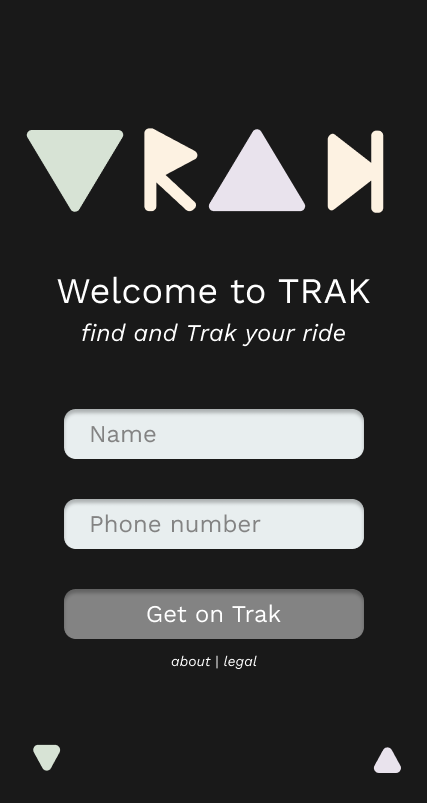
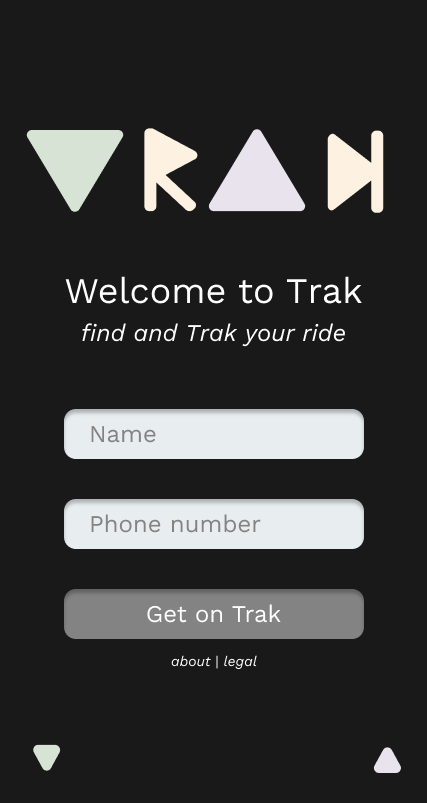
build screen 1

Changed region(s): [[0.1218, 0.3425, 0.6393, 0.4047], [0.6698, 0.3425, 0.8525, 0.4047]]

diff --git a/templates/index.html b/templates/index.html
@@ -7,104 +7,51 @@
     <meta name="viewport" content="width=device-width, initial-scale=1">
 
     <!-- Bootstrap CSS -->
-    <link href="https://cdn.jsdelivr.net/npm/bootstrap@5.1.3/dist/css/bootstrap.min.css" rel="stylesheet"
-        integrity="sha384-1BmE4kWBq78iYhFldvKuhfTAU6auU8tT94WrHftjDbrCEXSU1oBoqyl2QvZ6jIW3" crossorigin="anonymous">
+    <!-- <link href="https://cdn.jsdelivr.net/npm/bootstrap@5.1.3/dist/css/bootstrap.min.css" rel="stylesheet"
+        integrity="sha384-1BmE4kWBq78iYhFldvKuhfTAU6auU8tT94WrHftjDbrCEXSU1oBoqyl2QvZ6jIW3" crossorigin="anonymous"> -->
     
     <link rel="icon" href="https://cloud-8ktq37dfl-hack-club-bot.vercel.app/0t.png">
     <link rel="stylesheet" href="style.css">
-    <!-- <link rel="stylesheet" href="https://codepen.io/gymratpacks/pen/VKzBEp#0"> -->
 
-    <link href='https://fonts.googleapis.com/css?family=Nunito:400,300' rel='stylesheet' type='text/css'>
+    <link rel="preconnect" href="https://fonts.googleapis.com">
+    <link rel="preconnect" href="https://fonts.gstatic.com" crossorigin>
+    <link href="https://fonts.googleapis.com/css2?family=Work+Sans:ital,wght@0,400;1,300&display=swap" rel="stylesheet">
 
     <title>T R A K</title>    
 </head>
 
 <body>
-    <h1>Welcome to TRAK</h1>
-
-    <!-- Optional JavaScript; choose one of the two! -->
-
-    <!-- Option 1: Bootstrap Bundle with Popper -->
+    <!-- Bootstrap Bundle with Popper -->
     <script src="https://cdn.jsdelivr.net/npm/bootstrap@5.1.3/dist/js/bootstrap.bundle.min.js"
         integrity="sha384-ka7Sk0Gln4gmtz2MlQnikT1wXgYsOg+OMhuP+IlRH9sENBO0LRn5q+8nbTov4+1p"
         crossorigin="anonymous"></script>
 
-    <!-- Option 2: Separate Popper and Bootstrap JS -->
-    <!--
-    <script src="https://cdn.jsdelivr.net/npm/@popperjs/core@2.10.2/dist/umd/popper.min.js" integrity="sha384-7+zCNj/IqJ95wo16oMtfsKbZ9ccEh31eOz1HGyDuCQ6wgnyJNSYdrPa03rtR1zdB" crossorigin="anonymous"></script>
-    <script src="https://cdn.jsdelivr.net/npm/bootstrap@5.1.3/dist/js/bootstrap.min.js" integrity="sha384-QJHtvGhmr9XOIpI6YVutG+2QOK9T+ZnN4kzFN1RtK3zEFEIsxhlmWl5/YESvpZ13" crossorigin="anonymous"></script>
-    -->
-
-
     <div class="row">
         <div class="col-md-12">
-            <form action="this is going to be a repl.it link" method="post">
-                <h1> Sign Up </h1>
 
-                <fieldset>
+            <fieldset>
 
-                    <legend><span class="number">1</span> Your Basic Info</legend>
+                <center><img src="./../assets/logo_trak.png" alt="Trak logo"></center>
+                
+                <h1>Welcome to Trak</h1>
+                
+                <center><h2><i>find and Trak your ride</i></h2></center>
+                
 
-                    <label for="name">Name:</label>
-                    <input type="text" id="name" name="user_name">
+                <input class="input-name" placeholder="Name" type="text">
+                <input type="text" id="name" name="user_name">
+                    
+                <label class="input-phone" placeholder="Phone number" type="number">
+                <input type="tel" id="phone" name="user_phone" pattern="[0-9]{3}-[0-9]{3}-[0-9]{4}" required>
 
-                    <label for="email">Email:</label>
-                    <input type="email" id="mail" name="user_email">
+            </fieldset>
 
-                    <label for="password">Password:</label>
-                    <input type="password" id="password" name="user_password">
-
-                    <label>Age:</label>
-                    <input type="radio" id="under_13" value="under_13" name="user_age"><label for="under_13"
-                        class="light">Under 13</label><br>
-                    <input type="radio" id="over_13" value="over_13" name="user_age"><label for="over_13"
-                        class="light">Over 13</label>
-
-                </fieldset>
-                <fieldset>
-
-                    <legend><span class="number">2</span> Your Profile</legend>
-
-                    <label for="bio">Bio:</label>
-                    <textarea id="bio" name="user_bio"></textarea>
-
-
-
-                    <label for="job">Job Role:</label>
-                    <select id="job" name="user_job">
-                        <optgroup label="Web">
-                            <option value="frontend_developer">Front-End Developer</option>
-                            <option value="php_developer">PHP Developer</option>
-                            <option value="python_developer">Python Developer</option>
-                            <option value="rails_developer">Rails Developer</option>
-                            <option value="web_designer">Web Designer</option>
-                            <option value="wordpress_developer">Wordpress Developer</option>
-                        </optgroup>
-                        <optgroup label="Mobile">
-                            <option value="android_developer">Android Developer</option>
-                            <option value="ios_developer">IOS Developer</option>
-                            <option value="mobile_designer">Mobile Designer</option>
-                        </optgroup>
-                        <optgroup label="Business">
-                            <option value="business_owner">Business Owner</option>
-                            <option value="freelancer">Freelancer</option>
-                        </optgroup>
-                    </select>
-
-                    <label>Interests:</label>
-                    <input type="checkbox" id="development" value="interest_development" name="user_interest"><label
-                        class="light" for="development">Development</label><br>
-                    <input type="checkbox" id="design" value="interest_design" name="user_interest"><label class="light"
-                        for="design">Design</label><br>
-                    <input type="checkbox" id="business" value="interest_business" name="user_interest"><label
-                        class="light" for="business">Business</label>
-
-                </fieldset>
-
-                <button type="submit">Sign Up</button>
-
+            <form action="screen2.html">
+                <button type="submit">Get on Trak</button>
             </form>
+
         </div>
+
     </div>
 
 </body>

diff --git a/templates/screen2.html b/templates/screen2.html
@@ -1,0 +1,46 @@
+<!doctype html>
+<html lang="en">
+
+<head>
+    <!-- Required meta tags -->
+    <meta charset="utf-8">
+    <meta name="viewport" content="width=device-width, initial-scale=1">
+
+    <!-- Bootstrap CSS -->
+    <link href="https://cdn.jsdelivr.net/npm/bootstrap@5.1.3/dist/css/bootstrap.min.css" rel="stylesheet"
+        integrity="sha384-1BmE4kWBq78iYhFldvKuhfTAU6auU8tT94WrHftjDbrCEXSU1oBoqyl2QvZ6jIW3" crossorigin="anonymous">
+
+    <link rel="icon" href="https://cloud-8ktq37dfl-hack-club-bot.vercel.app/0t.png">
+    <link rel="stylesheet" href="style.css">
+    <!-- <link rel="stylesheet" href="https://codepen.io/gymratpacks/pen/VKzBEp#0"> -->
+
+    <!-- <link href='https://fonts.googleapis.com/css?family=Nunito:400,300' rel='stylesheet' type='text/css'> -->
+    <link rel="preconnect" href="https://fonts.googleapis.com">
+    <link rel="preconnect" href="https://fonts.gstatic.com" crossorigin>
+    <link href="https://fonts.googleapis.com/css2?family=Work+Sans:ital,wght@1,300&display=swap" rel="stylesheet">
+
+    <title>T R A K</title>
+</head>
+
+<body>
+    <h1>Welcome to TRAK</h1>
+
+    <!-- Optional JavaScript; choose one of the two! -->
+
+    <!-- Option 1: Bootstrap Bundle with Popper -->
+    <script src="https://cdn.jsdelivr.net/npm/bootstrap@5.1.3/dist/js/bootstrap.bundle.min.js"
+        integrity="sha384-ka7Sk0Gln4gmtz2MlQnikT1wXgYsOg+OMhuP+IlRH9sENBO0LRn5q+8nbTov4+1p"
+        crossorigin="anonymous"></script>
+
+    <!-- Option 2: Separate Popper and Bootstrap JS -->
+    <!--
+    <script src="https://cdn.jsdelivr.net/npm/@popperjs/core@2.10.2/dist/umd/popper.min.js" integrity="sha384-7+zCNj/IqJ95wo16oMtfsKbZ9ccEh31eOz1HGyDuCQ6wgnyJNSYdrPa03rtR1zdB" crossorigin="anonymous"></script>
+    <script src="https://cdn.jsdelivr.net/npm/bootstrap@5.1.3/dist/js/bootstrap.min.js" integrity="sha384-QJHtvGhmr9XOIpI6YVutG+2QOK9T+ZnN4kzFN1RtK3zEFEIsxhlmWl5/YESvpZ13" crossorigin="anonymous"></script>
+    -->
+
+
+    <h1>Thank you!</h1>
+
+</body>
+
+</html>

diff --git a/templates/style.css b/templates/style.css
@@ -4,18 +4,19 @@
   -moz-box-sizing: border-box;
   -webkit-box-sizing: border-box;
   box-sizing: border-box;
+  background-color: #191919;
 }
 
 body {
-  font-family: "Nunito", sans-serif;
-  color: #384047;
+  font-family: "Work Sans", sans-serif;
+  color: #ffffff;
 }
 
 form {
   max-width: 300px;
   margin: 10px auto;
   padding: 10px 20px;
-  background: #f4f7f8;
+  background: #191919;
   border-radius: 8px;
 }
 
@@ -25,15 +26,8 @@ h1 {
 }
 
 input[type="text"],
-input[type="password"],
-input[type="date"],
-input[type="datetime"],
-input[type="email"],
 input[type="number"],
 input[type="search"],
-input[type="tel"],
-input[type="time"],
-input[type="url"],
 textarea,
 select {
   background: rgba(255, 255, 255, 0.1);
@@ -43,7 +37,7 @@ select {
   margin: 0;
   outline: 0;
   padding: 15px;
-  width: 100%;
+  width: 50%;
   background-color: #e8eeef;
   color: #8a97a0;
   box-shadow: 0 1px 0 rgba(0, 0, 0, 0.03) inset;
@@ -62,18 +56,26 @@ select {
 }
 
 button {
-  padding: 19px 39px 18px 39px;
-  color: #fff;
-  background-color: #4bc970;
+  padding: 19px 39px 18px 39px; /*padding: 5px 10px;*/
+  color: #ffffff;
+  background-color: #838383;
   font-size: 18px;
   text-align: center;
   font-style: normal;
+  border: 4px solid #d7e3d5;
   border-radius: 5px;
   width: 100%;
-  border: 1px solid #3ac162;
+  border: 1px solid #838383;
   border-width: 1px 1px 3px;
   box-shadow: 0 -1px 0 rgba(255, 255, 255, 0.1) inset;
   margin-bottom: 10px;
+}
+
+button:hover {
+  color: #d7e3d5;
+  background-color: ##d7e3d5;
+  box-shadow: 3px 3px #aaaaaa;
+  cursor: pointer;
 }
 
 fieldset {
@@ -81,7 +83,7 @@ fieldset {
   border: none;
 }
 
-legend {
+/* legend {
   font-size: 1.4em;
   margin-bottom: 10px;
 }
@@ -113,5 +115,5 @@ label.light {
 @media screen and (min-width: 480px) {
   form {
     max-width: 480px;
-  }
-}
+  } 
+} */

diff --git a/send_sms.py b/send_sms.py
@@ -12,13 +12,28 @@ client = Client(account_sid, auth_token)
 
 
 # Text user: default
-def text_user():
+def text_user(name):
     message = client.messages.create(
         to=phone_number,
         from_="+14232502023",
         body=
         "Hi!! This is Elizabeth and Alyssa on Twilio hacking at Technica 2021. Welcome to trak!"
     )
+
+
+# Text user: ride prepare
+def text_user_prepare(name):
+    message = client.messages.create(to=phone_number,
+                                     from_="+14232502023",
+                                     body="Get ready, " + name +
+                                     "! Your ride is coming in 1 minute")
+
+
+# Text user: ride arrival
+def text_user_arrive():
+    message = client.messages.create(to=phone_number,
+                                     from_="+14232502023",
+                                     body="Your ride is here! ✨")
 
 
 # Text user: custom
